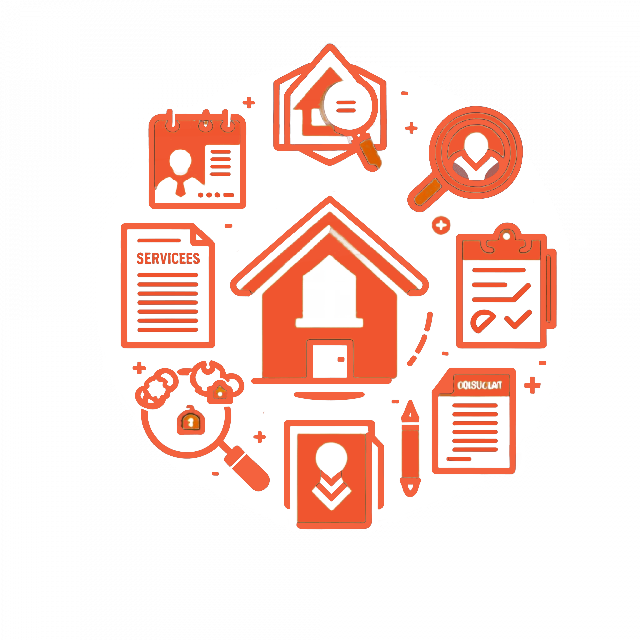
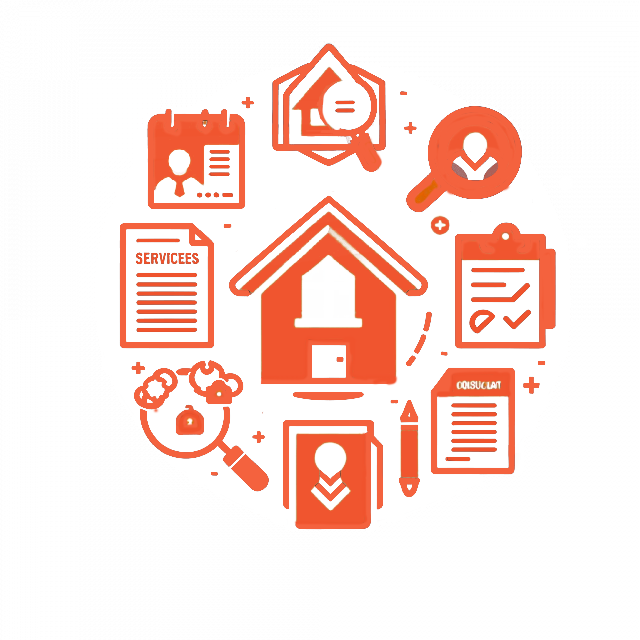
image enhancement

diff --git a/src/Components/CustomerReviews/CustomerReviews.jsx b/src/Components/CustomerReviews/CustomerReviews.jsx
@@ -69,7 +69,7 @@ const CustomerReviews = () => {
           </Link>
         </div>
         <div className='w-full md:w-1/2 flex justify-center items-center md:absolute md:top-0 md:left-0 md:h-full mt-8 md:mt-0' id='globe' data-aos='fade-left' data-aos-duration="1000" data-aos-delay="500" data-aos-once="true">
-          <Globe />
+          {/* <Globe /> */}
         </div>
       </div>
     </div>
